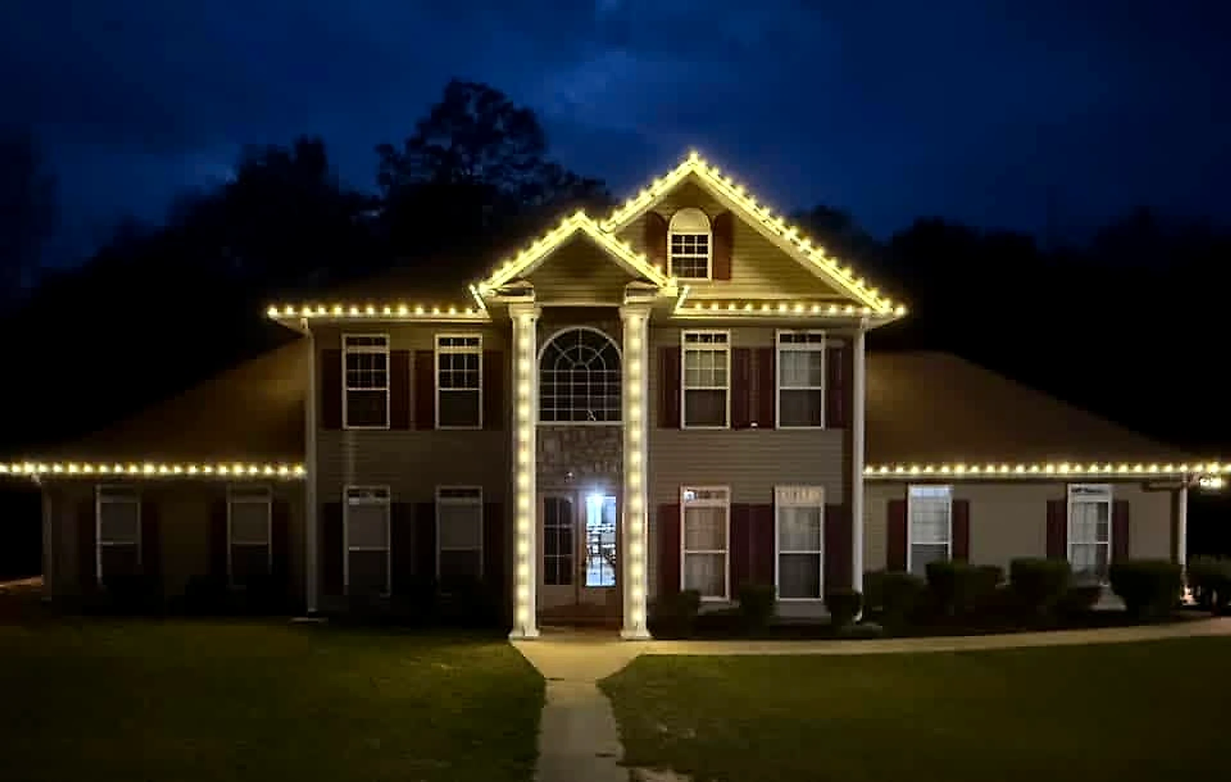
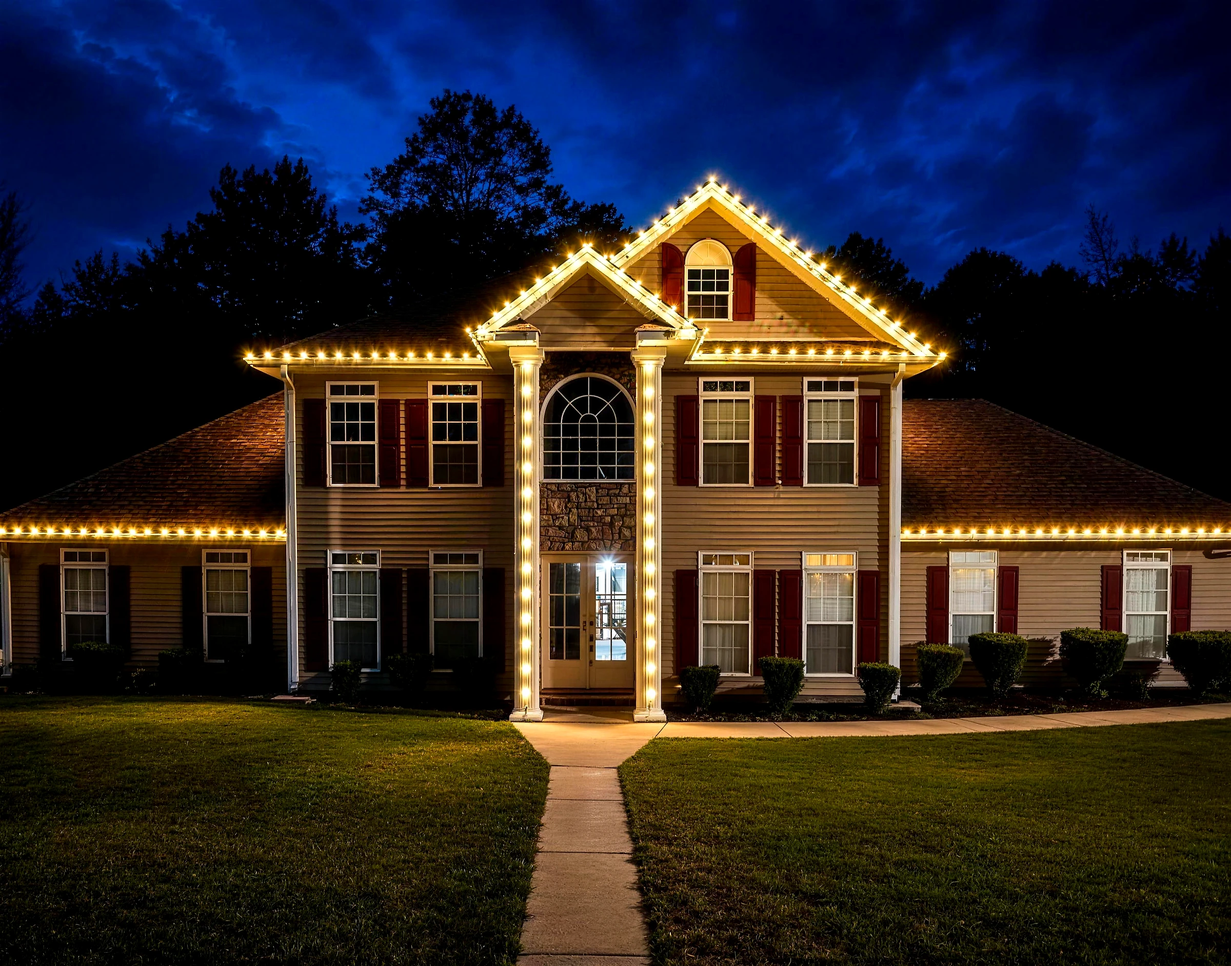
Swap in the owner's new photos, upscaled, and cut the unused verticals
PHOTOS. Eleven new photographs came in through the Photo Desk. That app
compresses anything attached to it to 800px at JPEG quality 55 so all
forty-six previews fit inside one artifact, which is fine for saying
"this photo, this slot" and useless as a publishing source: dropped
straight into a 2400px hero they would be blurrier than what they
replace.

So each one went through a real upscaler to 4096px first, then through a
new ingest that resizes down to the slot's ceiling and applies a tone
pass built for night photography on a dark page: saturation to keep
filament light reading as light, a black-point pull to separate bulbs
from the sky behind them, and modest sharpening applied after the
downscale rather than instead of resolution.

The difference is not subtle. Against a plain lanczos resample of the
same 800px source at the same output size, the upscale resolves
individual bulbs, bark texture and people that the resample renders as
mush.

  hoa-entrance   2400x1596    church          1600x1064
  colonial-columns 2400x1883  bistro-patio    1600x1200
  live-oak-wrap  2400x1584    c9-detail       1600x1066
  landscape-lighting 1600x1155  permanent-color 1600x1330
  storage-warehouse 1600x1200  tree-shrub     1600x1200
  project-poplarville-colonial 1600x1255

REMOVED, at the owner's direction. Six commercial verticals and their
pages: municipal and government, hotels and resorts, country clubs,
retail and shopping centres, restaurants, apartments and multifamily.
[…]

diff --git a/southeast-lights/src/config/verticals.ts b/southeast-lights/src/config/verticals.ts
@@ -31,7 +31,7 @@ export const VERTICALS: Vertical[] = [
       "Holiday lighting for HOAs, master-planned communities and neighborhood entrances across Mississippi. Board-ready proposals, insured crews, consistent design year over year.",
     summary:
       "We light neighborhood entrances, boulevards and common areas for HOAs and master-planned communities, with proposals a board can actually vote on and a display that looks identical next year.",
-    image: IMAGES.projectHattiesburgPalms,
+    image: IMAGES.hoaEntrance,
     priority: 1,
     concerns: [
       {
@@ -117,164 +117,6 @@ export const VERTICALS: Vertical[] = [
       {
         heading: "Budget you can take to a committee",
         body: "One fixed seasonal price with a written scope, so a finance committee sees exactly what is included before approving anything.",
-      },
-    ],
-  },
-  {
-    slug: "municipal-and-government",
-    label: "Municipal & Government",
-    title: "Municipal and City Holiday Lighting",
-    metaDescription:
-      "Holiday lighting for Mississippi cities, downtown districts, parks and municipal buildings. Insured, properly equipped crews with documentation for public procurement.",
-    summary:
-      "We light downtown districts, city buildings, parks and public spaces for the holidays and for Mardi Gras, with the insurance documentation public procurement requires.",
-    image: IMAGES.downtownMunicipal,
-    priority: 4,
-    concerns: [
-      {
-        heading: "Procurement-ready paperwork",
-        body: "Certificates of insurance, W-9 and references available on request so a clerk can process the file without chasing us for documents.",
-      },
-      {
-        heading: "Work over public right-of-way",
-        body: "Downtown work means lane closures, pedestrian traffic and coordination with public works. Our crews plan for it rather than improvising on the day.",
-      },
-      {
-        heading: "Displays that survive a season of weather",
-        body: "Public installations get inspected and serviced through the season. A dark block on Main Street in mid-December is a phone call to city hall, so we would rather find it first.",
-      },
-      {
-        heading: "Two seasons, one vendor",
-        body: "Christmas and Mardi Gras are the same crews, the same equipment and the same coordination. Many Gulf Coast municipalities book both together.",
-      },
-    ],
-  },
-  {
-    slug: "hotels-and-resorts",
-    label: "Hotels & Resorts",
-    title: "Hotel and Resort Holiday Lighting",
-    metaDescription:
-      "Holiday and architectural lighting for hotels, resorts and hospitality properties on the Mississippi Gulf Coast and across South Mississippi.",
-    summary:
-      "We light hospitality properties where the entrance is the first thing a guest photographs: porte-cocheres, facades, palms and grounds, installed without disrupting guests.",
-    image: IMAGES.hotelResort,
-    priority: 5,
-    concerns: [
-      {
-        heading: "Installed without disrupting guests",
-        body: "Work is staged around arrival and departure peaks and around events on the property. Lifts do not sit in the porte-cochere at check-in.",
-      },
-      {
-        heading: "The entrance is the photograph",
-        body: "Guests photograph the drive-up. We design the porte-cochere, facade and palms as the composition people actually post, not as an afterthought.",
-      },
-      {
-        heading: "Kept perfect all season",
-        body: "A hospitality property cannot have a dark section. Scheduled night inspections catch failures before a guest or a manager does.",
-      },
-      {
-        heading: "Mardi Gras too",
-        body: "On the Coast the season does not end in December. Many properties run a Christmas display and a Mardi Gras display back to back.",
-      },
-    ],
-  },
-  {
-    slug: "country-clubs",
-    label: "Country Clubs",
-    title: "Country Club and Golf Club Holiday Lighting",
-    metaDescription:
-      "Holiday lighting for country clubs, golf clubs and private clubs in Mississippi. Clubhouse facades, entrances, specimen trees and event lighting.",
-    summary:
-      "We light clubhouses, entry drives and specimen trees for private clubs, and handle the event lighting for the season's calendar of member functions.",
-    image: IMAGES.countryClub,
-    priority: 6,
-    concerns: [
-      {
-        heading: "Members notice the details",
-        body: "Sagging runs, mismatched bulb temperatures and dark sections get mentioned at the bar. Custom-cut strands and consistent warm white keep it looking deliberate.",
-      },
-      {
-        heading: "Built around the event calendar",
-        body: "Member Christmas parties, tournaments and receptions each have a date. The display is finished before the first one, not during it.",
-      },
-      {
-        heading: "Specimen trees done right",
-        body: "The oaks on a club property are usually its best asset after dark. Full trunk and limb wrapping on mature trees needs lifts and crews who have done it before.",
-      },
-    ],
-  },
-  {
-    slug: "retail-and-shopping-centers",
-    label: "Retail & Shopping Centers",
-    title: "Retail and Shopping Center Christmas Lighting",
-    metaDescription:
-      "Commercial Christmas lighting for shopping centers, retail plazas and mixed-use developments across Mississippi. Insured crews, lift equipment, full-season maintenance.",
-    summary:
-      "We light retail centers and mixed-use properties for the season that actually pays their rent, with crews and equipment sized for long parapets and parking-island trees.",
-    image: IMAGES.retailCenter,
-    priority: 7,
-    concerns: [
-      {
-        heading: "This is your quarter",
-        body: "Holiday lighting on a retail property is a trade-driving expense, not decoration. Design should pull traffic off the road and hold it after dark.",
-      },
-      {
-        heading: "Installed before traffic arrives",
-        body: "Lifts and crews work early or overnight where the property requires it, so shoppers and tenants are not routed around a work zone in November.",
-      },
-      {
-        heading: "One property manager, one call",
-        body: "Multiple buildings, multiple tenants, one scope and one invoice. Tenants do not each hire a different guy with a ladder.",
-      },
-    ],
-  },
-  {
-    slug: "restaurants",
-    label: "Restaurants",
-    title: "Restaurant and Bar Lighting",
-    metaDescription:
-      "Holiday, bistro and patio lighting for restaurants and bars in South Mississippi and the Gulf Coast. Year-round patio string lighting and seasonal displays.",
-    summary:
-      "We handle both sides of restaurant lighting: year-round bistro and patio string lighting that stays tight, and seasonal displays for Christmas and Mardi Gras.",
-    image: IMAGES.bistroPatio,
-    priority: 8,
-    concerns: [
-      {
-        heading: "Patio lighting that stays tight",
-        body: "Most sagging bistro lighting was installed without proper cable tensioning. Done correctly it stays straight through wind and weather instead of drooping by February.",
-      },
-      {
-        heading: "Installed around service",
-        body: "Work happens before open or between services. We are not running a lift through your patio during a Friday dinner rush.",
-      },
-      {
-        heading: "The patio is the photograph",
-        body: "Outdoor dining lives on social media. Good overhead lighting is the single cheapest thing that makes a patio look worth posting.",
-      },
-    ],
-  },
-  {
-    slug: "apartments-and-multifamily",
-    label: "Apartments & Multifamily",
-    title: "Apartment and Multifamily Holiday Lighting",
-    metaDescription:
-      "Holiday lighting for apartment communities, multifamily developments and property managers across Mississippi. Entrances, clubhouses and amenity areas.",
-    summary:
-      "We light apartment community entrances, clubhouses and amenity areas so a property looks leased-up and cared for through leasing season.",
-    image: IMAGES.projectPoplarvilleOutbuildings,
-    priority: 9,
-    concerns: [
-      {
-        heading: "Curb appeal during leasing season",
-        body: "Prospects tour in the dark from November onward. A lit entrance and clubhouse is the cheapest curb-appeal spend a property has.",
-      },
-      {
-        heading: "Insured work on your property",
-        body: "Certificates of insurance provided before we mobilize, naming the ownership entity as required by your management agreement.",
-      },
-      {
-        heading: "One scope across a portfolio",
-        body: "Managing several communities is easier with one design standard, one schedule and one invoice per property.",
       },
     ],
   },

diff --git a/southeast-lights/src/config/services.ts b/southeast-lights/src/config/services.ts
@@ -76,7 +76,7 @@ export const SERVICES: Service[] = [
       "Holiday lighting for HOAs, master-planned communities and neighborhood entrances in Mississippi. Board-ready proposals, consistent design year to year, full maintenance and storage.",
     summary:
       "Entrance monuments, boulevard trees and common areas designed as one coherent display, with board-ready proposals and the same look every year.",
-    image: IMAGES.projectHattiesburgPalms,
+    image: IMAGES.hoaEntrance,
     enabled: true,
     audience: "commercial",
   },
@@ -89,7 +89,7 @@ export const SERVICES: Service[] = [
       "Professional tree wrapping and tree lighting in South Mississippi, from ornamental trees to enormous live oaks. Trunk and limb wrapping, canopy lighting and uplighting.",
     summary:
       "Trunk and limb wrapping on everything from ornamental trees to century-old live oaks. The single most dramatic thing you can light on a property.",
-    image: IMAGES.treeWrappingHero,
+    image: IMAGES.liveOakWrap,
     enabled: true,
     audience: "both",
   },
@@ -102,7 +102,7 @@ export const SERVICES: Service[] = [
       "Permanent exterior LED lighting installed into your trim in Hattiesburg and South Mississippi. Warm white nightly, full color for every holiday, invisible by day.",
     summary:
       "Track LED installed once into your trim: warm white on an ordinary evening, any color for any holiday, and invisible from the street in daylight.",
-    image: IMAGES.permanentHero,
+    image: IMAGES.permanentColor,
     enabled: true,
     audience: "both",
   },

diff --git a/southeast-lights/src/config/images.ts b/southeast-lights/src/config/images.ts
@@ -173,6 +173,14 @@ export const IMAGES = {
     "permanent-hero",
     "Contemporary luxury home at night lit by permanent architectural LED lighting concealed beneath the roof eaves",
   ),
+  holidayHero: img(
+    "holiday-hero-estate",
+    "A large evergreen wrapped in multicolor Christmas lights at the center of a lit courtyard, with warm white bistro strings overhead and surrounding trees wrapped in white lights",
+  ),
+  hoaEntrance: img(
+    "hoa-entrance",
+    "Mature trees along a community drive with trunks and limbs fully wrapped in warm white lights, a lit tree and building beyond",
+  ),
   retailCenter: img(
     "retail-center",
     "A historic stone building covered in a curtain of warm white lights with an illuminated pink bow on the balcony",
@@ -233,18 +241,6 @@ export const IMAGES = {
   weddingEvent: img(
     "wedding-event",
     "Outdoor wedding reception beneath a canopy of warm white string lights and hanging filament bulbs",
-  ),
-  countryClub: img(
-    "country-club",
-    "Country club clubhouse with white columns and porte-cochere outlined in warm white Christmas lights",
-  ),
-  hotelResort: img(
-    "hotel-resort",
-    "Luxury resort porte-cochere outlined in warm white Christmas lights with palm trunks wrapped in lights",
-  ),
-  downtownMunicipal: img(
-    "downtown-municipal",
-    "Historic downtown main street decorated for Christmas with lit storefronts, wrapped street trees and lamp post wreaths",
   ),
   colonialColumns: img(
     "colonial-columns",

diff --git a/southeast-lights/src/components/home/hero.tsx b/southeast-lights/src/components/home/hero.tsx
@@ -19,7 +19,7 @@ import { messagingFor, type SeasonMode } from "@/config/season";
  */
 export function Hero({ mode, now }: { mode: SeasonMode; now: Date }) {
   const holiday = mode === "holiday";
-  const image = holiday ? IMAGES.projectHattiesburgCanopy : IMAGES.permanentHero;
+  const image = holiday ? IMAGES.holidayHero : IMAGES.permanentHero;
   /*
    * Phones get a portrait photograph of an install in progress. A wide hero
    * crops to a strip on a phone, and the vertical frame is the only shape

diff --git a/southeast-lights/src/app/(marketing)/service-areas/page.tsx b/southeast-lights/src/app/(marketing)/service-areas/page.tsx
@@ -53,7 +53,7 @@ export default function ServiceAreasPage() {
         eyebrow="Coverage"
         title="Where we work."
         intro="Hattiesburg and the Pine Belt are home. We cover the Gulf Coast for commercial and hospitality work, and we travel further for projects worth traveling for."
-        image={IMAGES.projectHattiesburgPalms}
+        image={IMAGES.hoaEntrance}
         quoteLocation="areas_hub"
       />
       <Breadcrumbs trail={trail} />

diff --git a/southeast-lights/src/app/(marketing)/service-areas/[city]/page.tsx b/southeast-lights/src/app/(marketing)/service-areas/[city]/page.tsx
@@ -29,8 +29,8 @@ export function generateStaticParams() {
 const HERO_BY_TIER = {
   home: IMAGES.projectPoplarvilleContinuousRun,
   core: IMAGES.colonialColumns,
-  coast: IMAGES.hotelResort,
-  regional: IMAGES.projectHattiesburgPalms,
+  coast: IMAGES.projectHattiesburgPalms,
+  regional: IMAGES.hoaEntrance,
 } as const;
 
 export async function generateMetadata({

diff --git a/southeast-lights/src/app/(marketing)/inspiration/page.tsx b/southeast-lights/src/app/(marketing)/inspiration/page.tsx
@@ -68,7 +68,7 @@ const STYLES: {
   },
   {
     name: "Community Entrance",
-    image: IMAGES.projectHattiesburgPalms,
+    image: IMAGES.hoaEntrance,
     body: "Monument walls, landscaped beds and boulevard trees designed so the display reads continuously as residents turn in.",
     suits: "HOAs, master-planned communities, neighborhood associations.",
   },

diff --git a/southeast-lights/src/components/home/segment-picker.tsx b/southeast-lights/src/components/home/segment-picker.tsx
@@ -18,7 +18,7 @@ const SEGMENTS = [
     label: "HOA & Communities",
     blurb:
       "Entrances, boulevards and common areas designed as one display, with proposals a board can vote on.",
-    image: IMAGES.projectHattiesburgPalms,
+    image: IMAGES.hoaEntrance,
   },
   {
     href: "/commercial",
